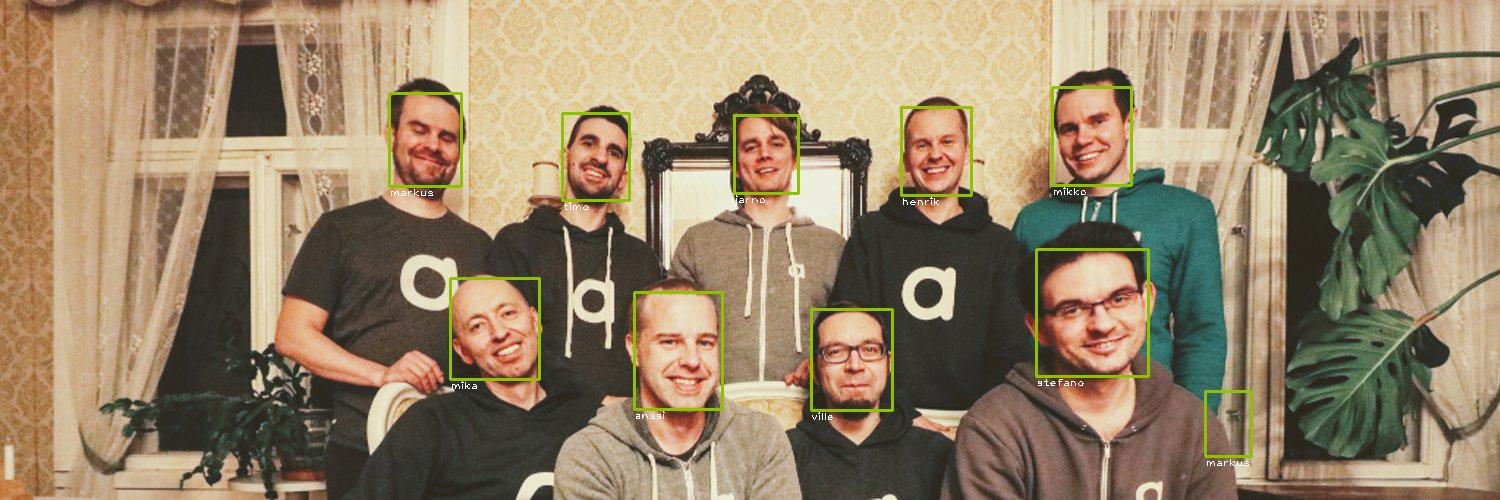
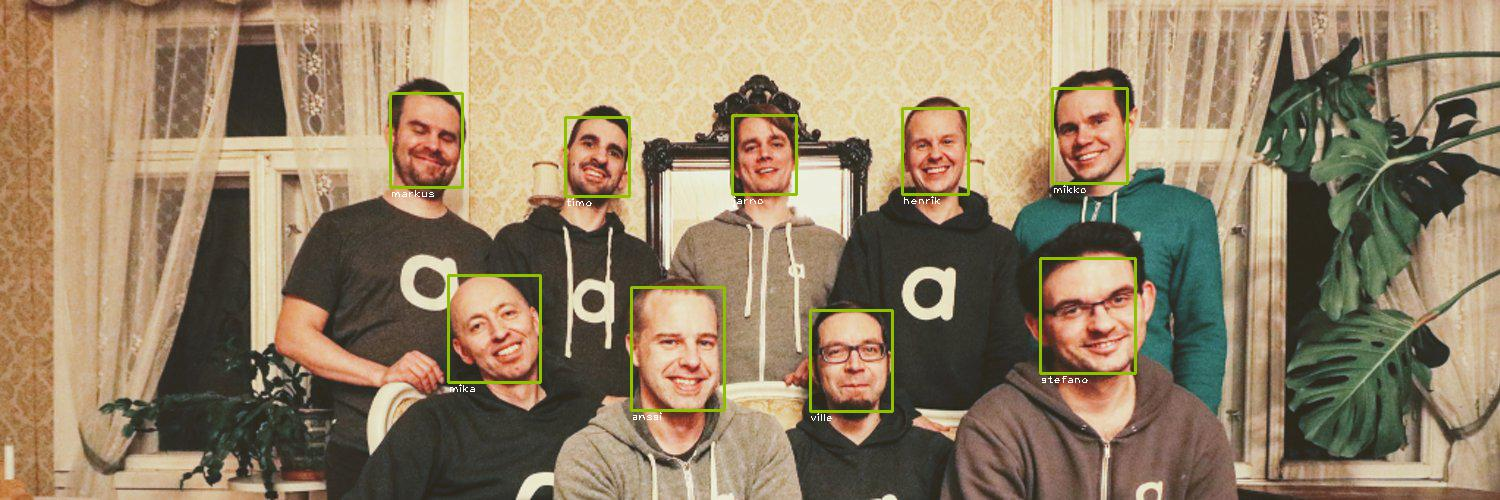
Some hyperparameter tuning to get rid of ghosts

diff --git a/src/recognize_arado.py b/src/recognize_arado.py
@@ -100,15 +100,10 @@ def main(args):
             best_class_indices = np.argmax(predictions, axis=1)
             best_class_probabilities = predictions[np.arange(len(best_class_indices)), best_class_indices]
 
-
             for i in range(len(best_class_indices)):
                 best_class = class_names[best_class_indices[i]]
                 drawFaceRectangleToImage(img,faces[i], best_class)
                 print('%4d  %s: %.3f' % (i, best_class, best_class_probabilities[i]))
-
-            for i in range(len(images)):
-                misc.imsave("foo_"+`i`+".jpeg", images[i])
-            misc.imsave("out.jpeg", img)
 
             for p in paths:
                 os.remove(p)
@@ -124,7 +119,7 @@ def findFaces(image_path, args):
         with sess.as_default():
             pnet, rnet, onet = align.detect_face.create_mtcnn(sess, None)
 
-    minsize = 20  # minimum size of face
+    minsize = 25  # minimum size of face
     threshold = [0.6, 0.7, 0.7]  # three steps's threshold
     factor = 0.709  # scale factor
 
